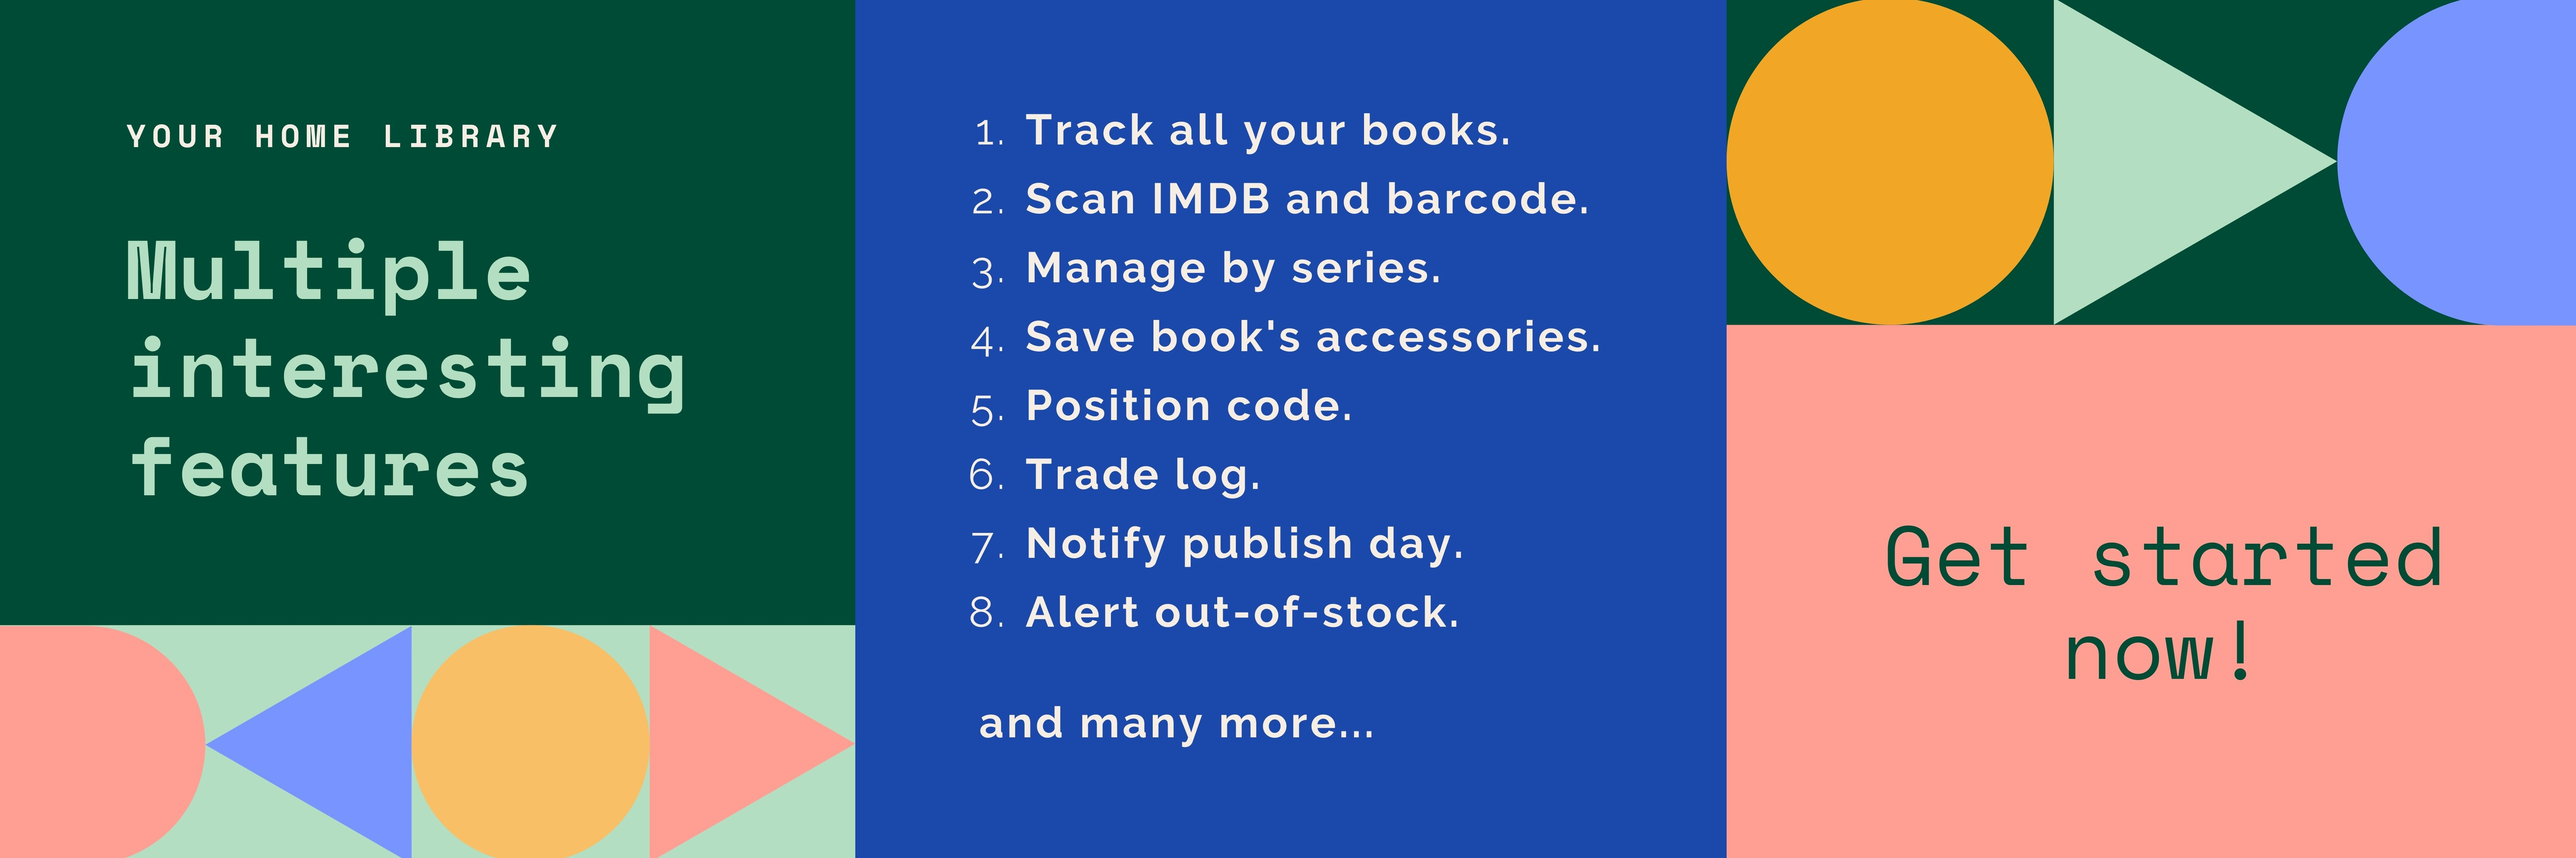
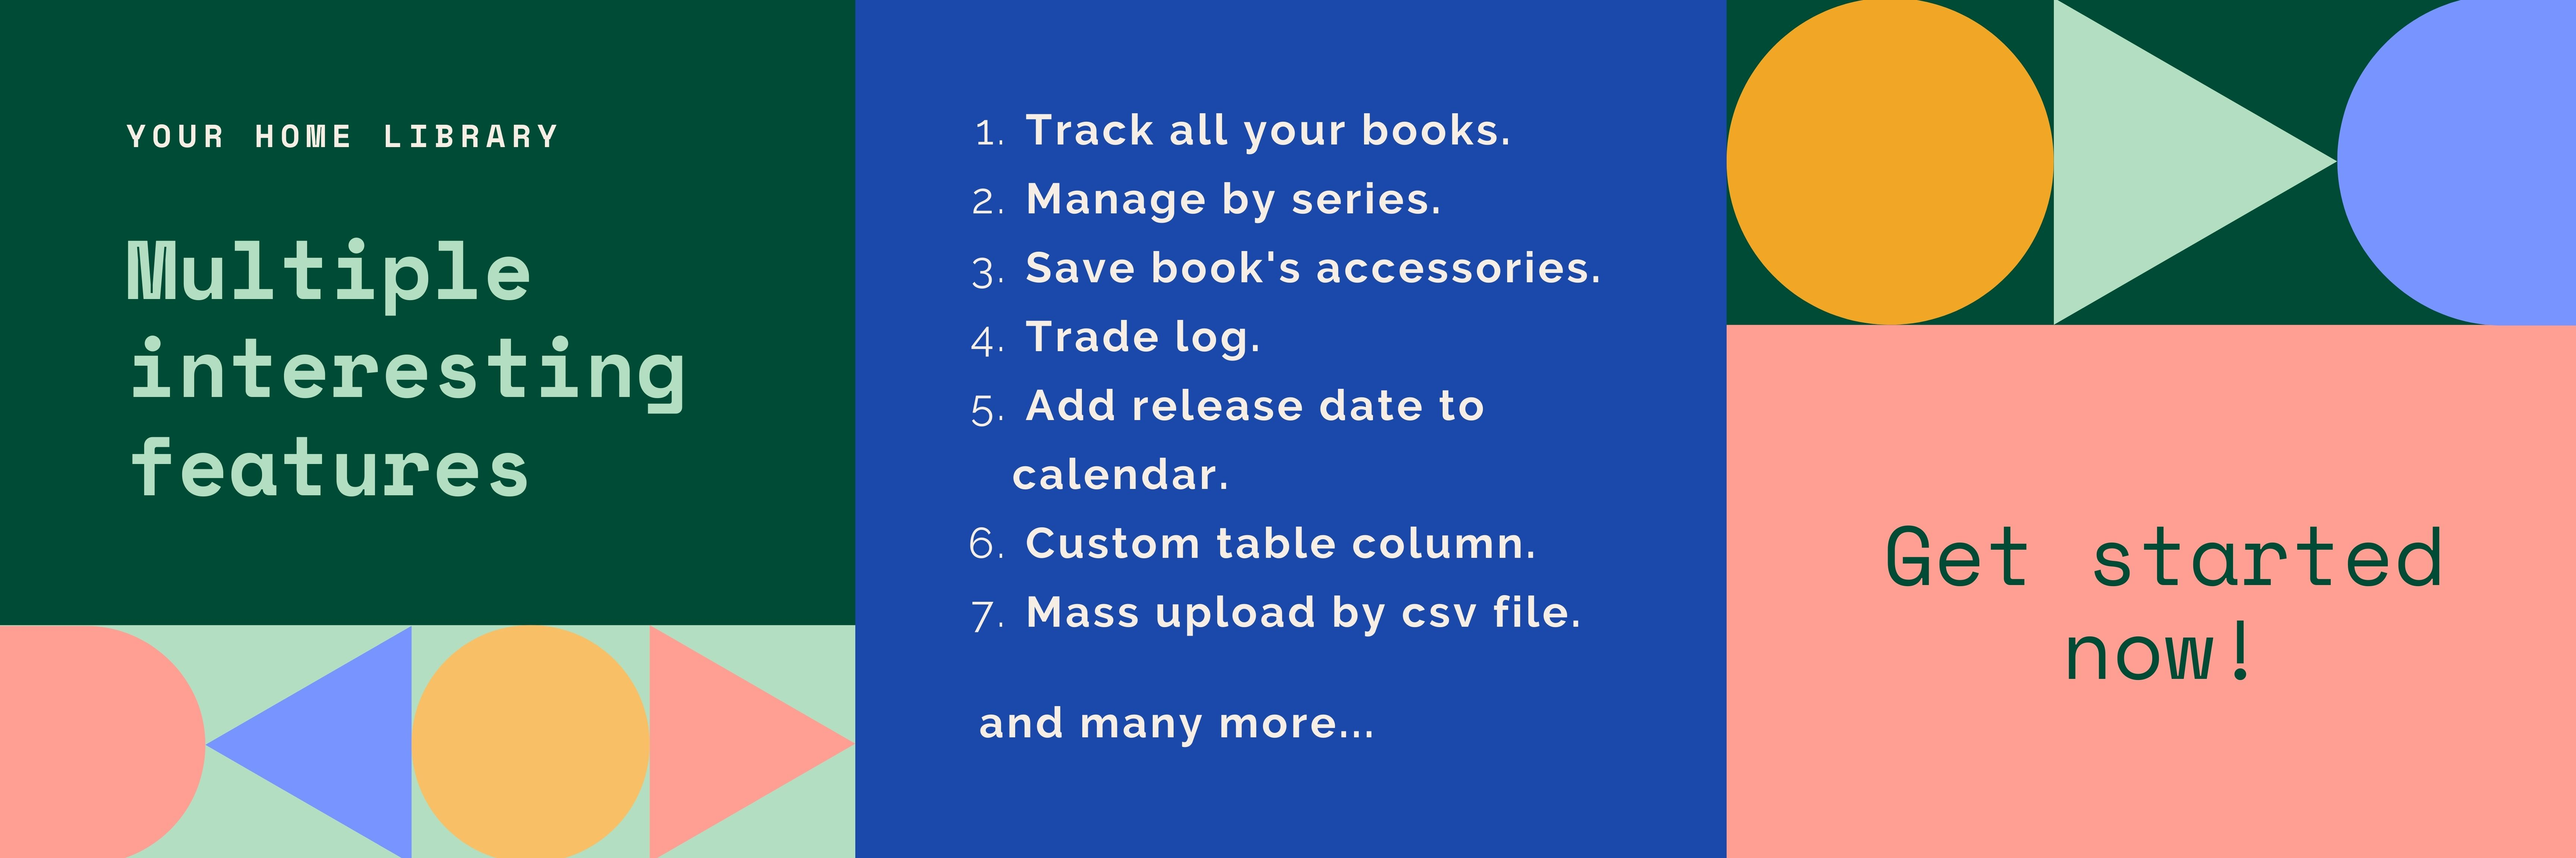
Update content

diff --git a/templates/index.html b/templates/index.html
@@ -97,7 +97,7 @@
             <div class="col">
                 <i class="fa-solid fa-arrows-to-circle sv-icon"></i>
                 <h4>Multiple options</h4>
-                <p>Organize by authors, series, reality position or even cover's color! It's all up to you.</p>
+                <p>Organize by authors, series, categories or even cover's color! It's all up to you.</p>
             </div>
             <div class="col">
                 <i class="fa-solid fa-user-lock sv-icon"></i>
@@ -129,23 +129,21 @@
                 <div class="row">
                     <div class="col w-50">
                         <h5 class="text-primary">Book manager</h5>
-                        <p>Mass upload using stylesheet and scanner. Save your time from boring typing.</p>
+                        <p>Open to custom data storage. Easy to create and delete.</p>
                     </div>
                     <div class="col w-50">
                         <h5 class="text-primary">Series follower</h5>
-                        <p>Notify publishing day and stocks in commercial sites. Keep track of the next book in
-                            series.</p>
+                        <p>Update release date on calendar. Keep track of available and missing books in series.</p>
                     </div>
                 </div>
                 <div class="row">
                     <div class="col w-50">
                         <h5 class="text-primary">Trade logger</h5>
-                        <p>Record all your collection's in-and-out activities. Never forget who borrowed your
-                            books.</p>
+                        <p>Record all your collection's in-and-out activities. Never forget who borrowed your books.</p>
                     </div>
                     <div class="col w-50">
-                        <h5 class="text-primary">Position saver</h5>
-                        <p>Your little librarian that memorize every single position in the bookshelves.</p>
+                        <h5 class="text-primary">Time saver</h5>
+                        <p>Mass upload using stylesheet. Save your time from boring typing.</p>
                     </div>
                 </div>
             </div>
@@ -159,24 +157,24 @@
             <p>This is the final project for CS50 Introduction to Computer Science - a free course by Havard
                 University. You can take a look <a href=https://cs50.harvard.edu/x/2022/>here</a>.
             </p>
-            <p>Lorem ipsum dolor sit amet, consectetur adipiscing elit, sed do eiusmod tempor incididunt ut labore et
-                dolore magna aliqua. Ut enim ad minim veniam, quis nostrud exercitation ullamco laboris nisi ut aliquip
-                ex ea commodo consequat. Duis aute irure dolor in reprehenderit in voluptate velit esse cillum dolore eu
-                fugiat nulla pariatur. Excepteur sint occaecat cupidatat non proident, sunt in culpa qui officia
-                deserunt mollit anim id est laborum.</p>
+            <p>Those works are referenced from CS50 lessons and problem sets, W3schools and CSS-tricks tutorials. And a
+                lot of help from StackOverflow, for sure. </p>
+            <p>Some libraries and frameworks used: Flask, Bootstrap, FontAwesome, Dayjs, CS50, Werkzeug, Jinja, SQLite..</p>
+            <p>Languages: Python, Javascript, SQL, HTML, SCSS</p>
         </div>
         <div class="row references d-flex justify-content-around pt-5">
             <img src="../static/img/bootstrap.png" alt="bootstrap">
             <img src="../static/img/canva.png" alt="canva">
             <img src="../static/img/fontawesome.png" alt="fontawesome">
-            <img src="../static/img/flask.png" alt="flask">
+            <img src="../static/img/dayjs.png" alt="dayjs">
+            <img src="../static/img/cs50.png" alt="cs50">
         </div>
     </section>
 
     <!-- Contact -->
     <section id="contact" class="mx-0 p-5">
         <h1 class="text-center mt-4 ">Contact</h1>
-        <form class="row w-50 mx-auto mb-3">
+        <form action="mailto:urhomelibrary@gmail.com" method="post" enctype=”multipart/form-data” class="row w-50 mx-auto mb-3">
             <div class="mb-3">
                 <input type="email" class="form-control shadow-sm p-3" id="contact-email" placeholder="Your Email:">
             </div>

diff --git a/templates/_insert.html b/templates/_insert.html
@@ -40,12 +40,8 @@
 
                             <div class="col-sm-5">
                                 <label for="isbn" class="form-label">ISBN</label>
-                                <div class="input-group">
-                                    <input type="number" class="form-control" id="isbn" name="isbn"
-                                           placeholder="9780439708180">
-                                    <button class="btn btn-outline-secondary" type="button" id="button-addon2">Scan
-                                    </button>
-                                </div>
+                                <input type="number" class="form-control" id="isbn" name="isbn"
+                                       placeholder="9780439708180">
                             </div>
 
                             <div class="col-sm-5">
@@ -200,10 +196,10 @@
                         </h6>
                         <div class="row g-3 mt-0 accordion-collapse collapse show" id="user_custom">
                             {% for column in custom %}
-                                <div class="col-lg-6 mt-3 mb-4">
-                                    <label for="{{ column }}" class="form-label">{{ column_name(column) }}</label>
-                                    <input type="text" class="form-control" id="{{ column }}" name="{{ column }}">
-                                </div>
+                            <div class="col-lg-6 mt-3 mb-4">
+                                <label for="{{ column }}" class="form-label">{{ column_name(column) }}</label>
+                                <input type="text" class="form-control" id="{{ column }}" name="{{ column }}">
+                            </div>
                             {% endfor %}
                         </div>
 

diff --git a/app.py b/app.py
@@ -3,7 +3,7 @@ import os
 
 from datetime import datetime
 from random import random
-from flask import Flask, redirect, render_template, request, session, flash, g, json, url_for
+from flask import Flask, render_template, g, json
 from flask_mail import Mail, Message
 from werkzeug.security import check_password_hash, generate_password_hash
 from werkzeug.utils import secure_filename
